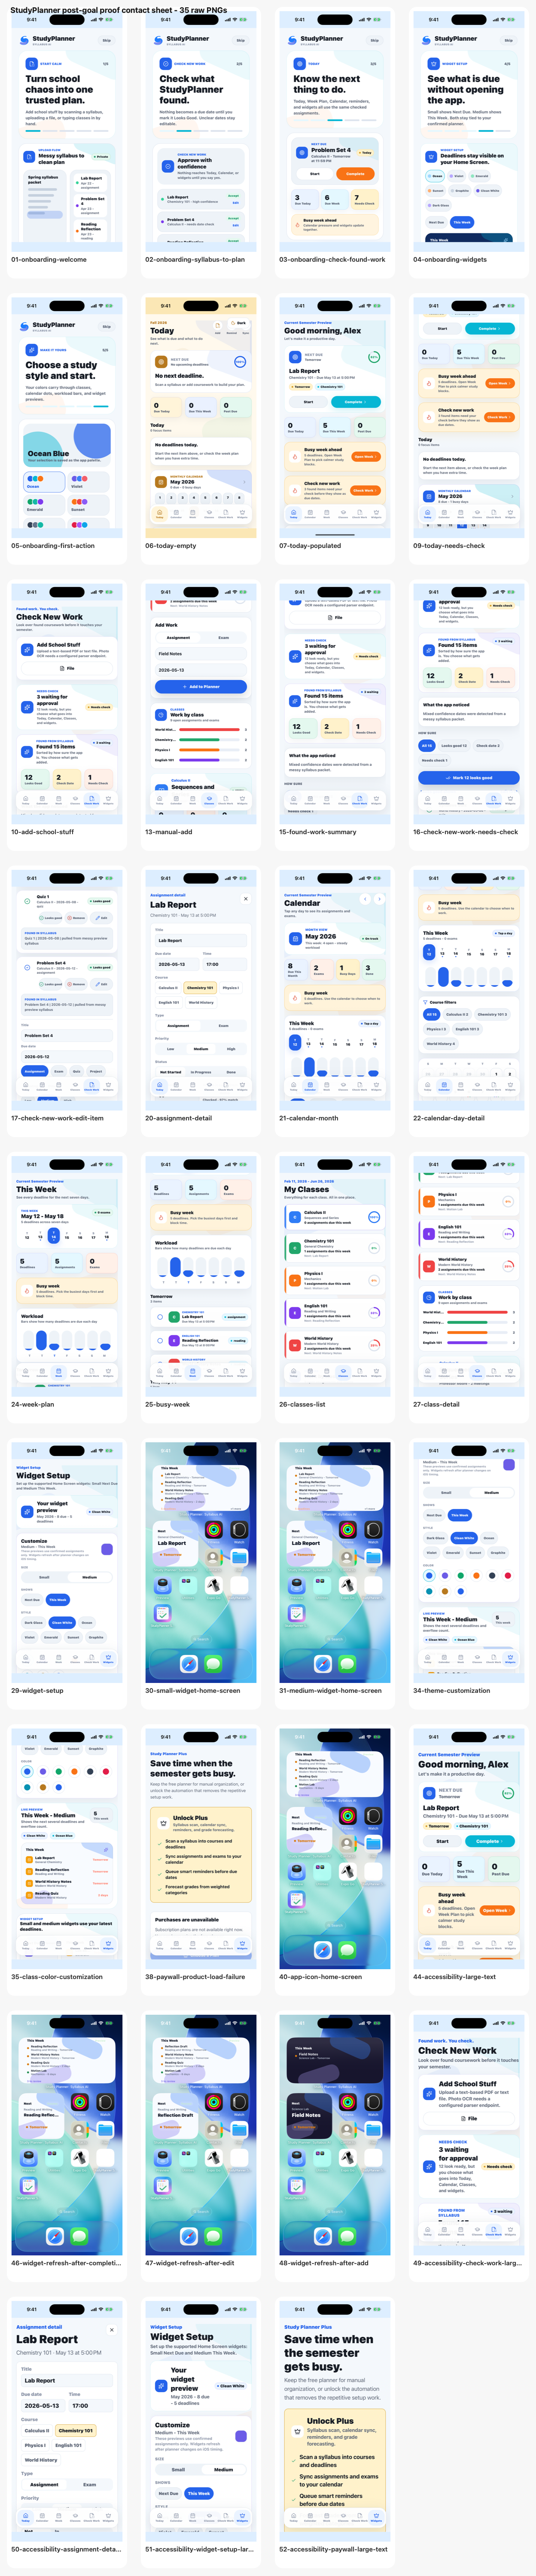
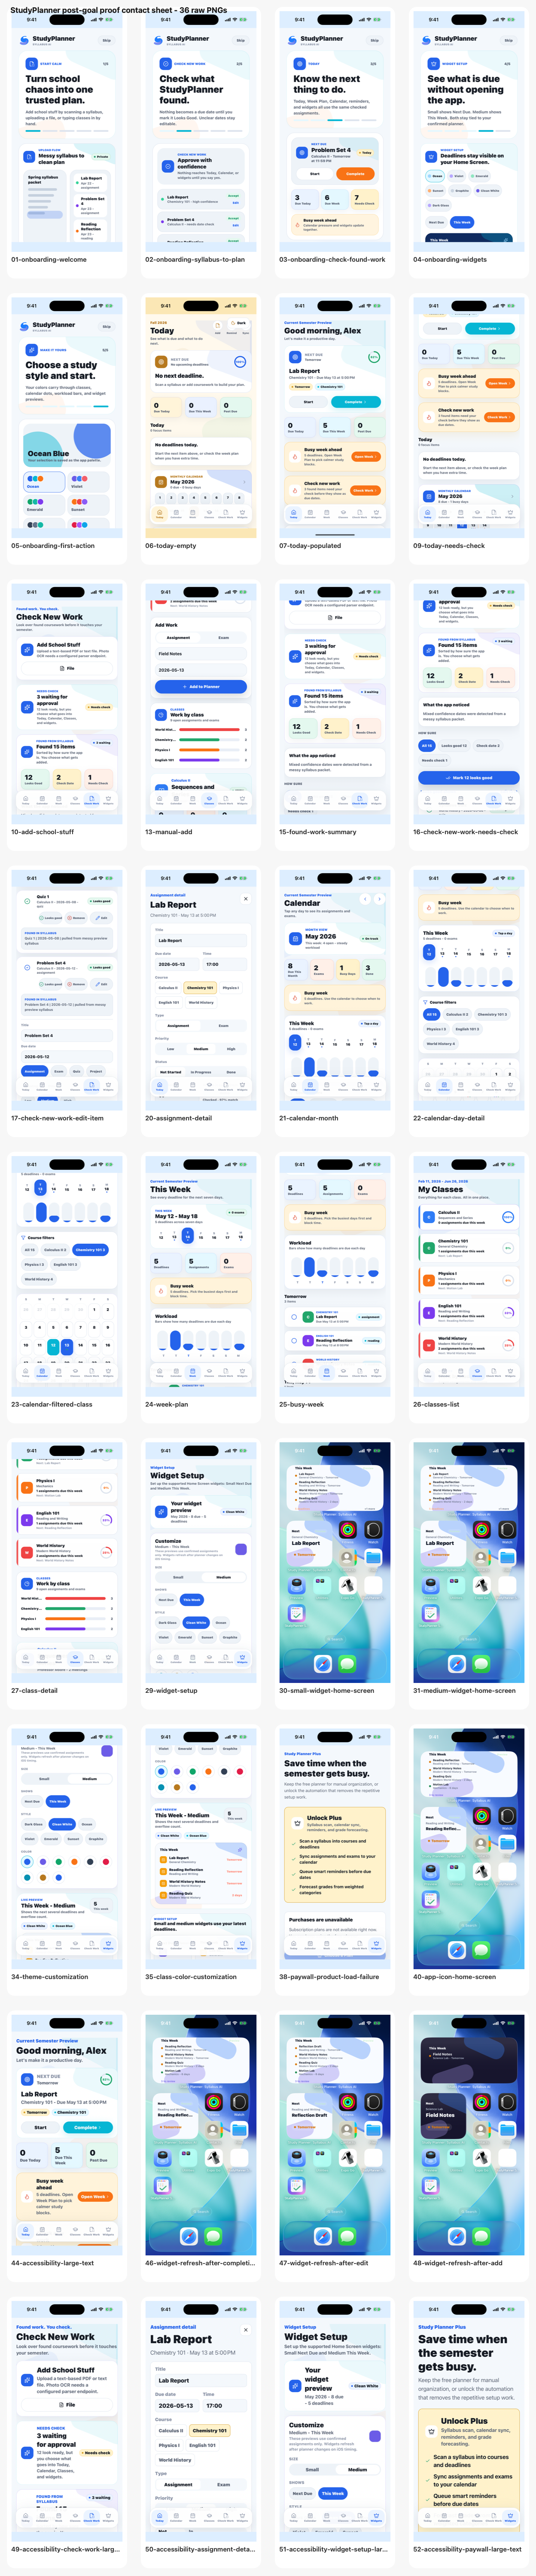
Capture filtered calendar proof

diff --git a/src/screens/MonthlyCalendarScreen.tsx b/src/screens/MonthlyCalendarScreen.tsx
@@ -34,6 +34,7 @@ type MonthlyCalendarScreenProps = {
   courses: Course[];
   onUpdateStatus: (assignmentId: string, status: "not_started" | "in_progress" | "done") => void;
   onOpenAssignment: (assignmentId: string) => void;
+  captureState?: string | null;
 };
 
 const weekdays = ["S", "M", "T", "W", "T", "F", "S"];
@@ -43,7 +44,8 @@ export function MonthlyCalendarScreen({
   assignments,
   courses,
   onUpdateStatus,
-  onOpenAssignment
+  onOpenAssignment,
+  captureState
 }: MonthlyCalendarScreenProps) {
   const { theme } = useAppTheme();
   const { colors } = theme;
@@ -84,6 +86,22 @@ export function MonthlyCalendarScreen({
       if (fallback) setSelectedDate(fallback.date);
     }
   }, [monthPlan.days, selectedDate]);
+
+  useEffect(() => {
+    if (!captureMode || captureState !== "calendar-filtered") return;
+    const courseId = courses.some((course) => course.id === "chem-101")
+      ? "chem-101"
+      : courses[0]?.id;
+    if (!courseId) return;
+
+    const firstCourseAssignment = assignments.find((assignment) => assignment.courseId === courseId);
+    setCourseFilterId(courseId);
+    if (firstCourseAssignment) {
+      const dueDateKey = toDateKey(new Date(firstCourseAssignment.dueAt));
+      setSelectedDate(dueDateKey);
+      setCursorMonth(new Date(firstCourseAssignment.dueAt));
+    }
+  }, [assignments, captureMode, captureState, courses]);
 
   return (
     <PremiumScreen>

diff --git a/tests/accessibilitySource.test.ts b/tests/accessibilitySource.test.ts
@@ -9,6 +9,7 @@ const appPath = path.join(process.cwd(), "App.tsx");
 const appButtonPath = path.join(process.cwd(), "src/components/AppButton.tsx");
 const importScreenPath = path.join(process.cwd(), "src/screens/ImportScreen.tsx");
 const coursesScreenPath = path.join(process.cwd(), "src/screens/CoursesScreen.tsx");
+const monthlyCalendarPath = path.join(process.cwd(), "src/screens/MonthlyCalendarScreen.tsx");
 const assignmentDetailPath = path.join(process.cwd(), "src/screens/AssignmentDetailScreen.tsx");
 const widgetShowcasePath = path.join(process.cwd(), "src/screens/WidgetShowcaseScreen.tsx");
 const upgradeScreenPath = path.join(process.cwd(), "src/screens/UpgradeScreen.tsx");
@@ -68,8 +69,10 @@ test("capture routes expose honest screenshot proof states", () => {
   const app = fs.readFileSync(appPath, "utf8");
   const importScreen = fs.readFileSync(importScreenPath, "utf8");
   const coursesScreen = fs.readFileSync(coursesScreenPath, "utf8");
+  const monthlyCalendar = fs.readFileSync(monthlyCalendarPath, "utf8");
 
   assert.ok(app.includes("captureStateFromQuery"));
+  assert.ok(app.includes("\"calendar-filtered\""));
   assert.ok(app.includes("\"edit-found-work\""));
   assert.ok(app.includes("\"manual-add\""));
 
@@ -79,4 +82,7 @@ test("capture routes expose honest screenshot proof states", () => {
   assert.ok(coursesScreen.includes("showCaptureManualAdd"));
   assert.ok(coursesScreen.includes("setTitle(\"Field Notes\")"));
   assert.ok(coursesScreen.includes("Set new work type to ${option === \"exam\" ? \"Exam\" : \"Assignment\"}"));
+
+  assert.ok(monthlyCalendar.includes("captureState !== \"calendar-filtered\""));
+  assert.ok(monthlyCalendar.includes("setCourseFilterId(courseId)"));
 });

diff --git a/App.tsx b/App.tsx
@@ -95,7 +95,7 @@ const tabs: Array<{
   { id: "upgrade", label: "Widgets", icon: Crown }
 ];
 
-type CaptureState = "edit-found-work" | "manual-add" | null;
+type CaptureState = "calendar-filtered" | "edit-found-work" | "manual-add" | null;
 
 export default function App() {
   return (
@@ -701,6 +701,7 @@ function AppContent() {
                   courses={courses}
                   onUpdateStatus={updateAssignmentStatus}
                   onOpenAssignment={setSelectedAssignmentId}
+                  captureState={captureState}
                 />
               ) : null}
               {activeTab === "week" ? (
@@ -734,6 +735,7 @@ function AppContent() {
 }
 
 function captureStateFromQuery(value: string | null): CaptureState {
+  if (value === "calendar-filtered" || value === "filtered-class") return "calendar-filtered";
   if (value === "edit-found-work" || value === "edit") return "edit-found-work";
   if (value === "manual-add" || value === "manual") return "manual-add";
   return null;

diff --git a/docs/SCREENSHOT_ASSET_INVENTORY.md b/docs/SCREENSHOT_ASSET_INVENTORY.md
@@ -2,12 +2,12 @@
 
 Folder: `artifacts/post-goal-aso-submission`
 
-Status: partial proof captured on 2026-05-12. The folder now contains **35 raw simulator PNGs** plus a generated contact sheet. These are real simulator screenshots, but most are capture-mode synthetic states and are **not final App Store upload assets** until StoreKit, iPad, and App Store-size export proof are complete.
+Status: partial proof captured on 2026-05-12. The folder now contains **36 raw simulator PNGs** plus a generated contact sheet. These are real simulator screenshots, but most are capture-mode synthetic states and are **not final App Store upload assets** until StoreKit, iPad, and App Store-size export proof are complete.
 
 ## Capture Summary
 
 - Production/no-demo proof captured: `06-today-empty.png`.
-- Capture-mode feature proof captured: onboarding, populated Today, Add School Stuff, Check New Work, Check Work edit item, Manual Add, assignment detail, Calendar, Week Plan, Classes, Widget Setup, theme customization, and paywall product-load failure.
+- Capture-mode feature proof captured: onboarding, populated Today, Add School Stuff, Check New Work, Check Work edit item, Manual Add, assignment detail, Calendar, filtered Calendar, Week Plan, Classes, Widget Setup, theme customization, and paywall product-load failure.
 - Native Home Screen widget proof captured: `30-small-widget-home-screen.png` and `31-medium-widget-home-screen.png` show installed WidgetKit small and medium widgets, refreshed from a current May 2026 capture snapshot.
 - App icon/Home Screen proof captured: `40-app-icon-home-screen.png`.
 - Accessibility proof captured: Today plus Check Work, Assignment Detail, Widget Setup, and Paywall at `accessibility-extra-extra-large` content size after capping high-risk display/action labels.
@@ -15,7 +15,7 @@ Status: partial proof captured on 2026-05-12. The folder now contains **35 raw s
 - Widget refresh payload captured: `widget-refresh-after-completion-snapshot.json`.
 - Widget edit refresh proof captured: `47-widget-refresh-after-edit.png` and `widget-refresh-after-edit-snapshot.json`.
 - Widget add refresh proof captured: `48-widget-refresh-after-add.png` and `widget-refresh-after-add-snapshot.json`.
-- Contact sheet captured: `45-final-contact-sheet.png`, regenerated from 35 PNGs.
+- Contact sheet captured: `45-final-contact-sheet.png`, regenerated from 36 PNGs.
 - Paywall products-loaded proof is still missing. The captured paywall state shows purchases unavailable and is correctly stored as `38-paywall-product-load-failure.png`.
 
 | Required PNG | Status | Notes |
@@ -43,7 +43,7 @@ Status: partial proof captured on 2026-05-12. The folder now contains **35 raw s
 | 20-assignment-detail.png | Captured | Capture-mode assignment detail, 1179x2556 PNG. |
 | 21-calendar-month.png | Captured | Capture-mode Calendar overview, 1179x2556 PNG. |
 | 22-calendar-day-detail.png | Captured | Capture-mode Calendar scrolled/detail state, 1179x2556 PNG. |
-| 23-calendar-filtered-class.png | Missing | Filtered class state not captured. |
+| 23-calendar-filtered-class.png | Captured | Capture-mode Calendar with Chemistry 101 filter selected, 1179x2556 PNG. It shows class-specific dots and agenda context from real planner data. |
 | 24-week-plan.png | Captured | Capture-mode Week Plan, 1179x2556 PNG. |
 | 25-busy-week.png | Captured | Capture-mode Busy Week evidence, 1179x2556 PNG. |
 | 26-classes-list.png | Captured | Capture-mode classes list, 1179x2556 PNG. |
@@ -65,7 +65,7 @@ Status: partial proof captured on 2026-05-12. The folder now contains **35 raw s
 | 42-sample-plan-state.png | Missing | Sample plan entry/state not separately captured. |
 | 43-localized-ui-example.png | Missing | UI localization proof not captured. |
 | 44-accessibility-large-text.png | Captured | Real simulator Today screen at `accessibility-extra-extra-large`, 1179x2556 PNG. It proves the top hierarchy no longer catastrophically explodes, but full VoiceOver/contrast audit remains open. |
-| 45-final-contact-sheet.png | Captured | Generated from the 35 current raw PNGs, 1248x5994 PNG. |
+| 45-final-contact-sheet.png | Captured | Generated from the 36 current raw PNGs, 1248x5994 PNG. |
 | 46-widget-refresh-after-completion.png | Captured | Real simulator Home Screen after tapping Complete in the app. Small and medium widgets reflect the refreshed snapshot. |
 | 47-widget-refresh-after-edit.png | Captured | Real simulator Home Screen after editing Reading Reflection to Reflection Draft. Small and medium widgets reflect the edited title. |
 | 48-widget-refresh-after-add.png | Captured | Real simulator Home Screen after adding Field Notes to Science Lab. Small and medium widgets reflect the added assignment from the App Group snapshot. |

diff --git a/docs/POST_GOAL_9_4_SCORECARD.md b/docs/POST_GOAL_9_4_SCORECARD.md
@@ -10,7 +10,7 @@ Baseline posture: Treat the app as **not submission-ready** until screenshots, S
 
 Initial weighted score before implementation in this branch: **7.82/10**.
 
-Current evidence-adjusted score after screenshot capture, contact-sheet proof, targeted large-text fix, core action large-text proof, manual-add/edit-item capture states, locale-aware month grid coverage, 24-hour date formatting coverage, source-tested VoiceOver labels, native widget Home Screen proof, current-date capture seed fix, widget refresh-after-completion/edit/add proof, widget day-boundary code/build proof, and app icon Home Screen proof: **8.99/10**.
+Current evidence-adjusted score after screenshot capture, contact-sheet proof, targeted large-text fix, core action large-text proof, manual-add/edit-item/filtered-calendar capture states, locale-aware month grid coverage, 24-hour date formatting coverage, source-tested VoiceOver labels, native widget Home Screen proof, current-date capture seed fix, widget refresh-after-completion/edit/add proof, widget day-boundary code/build proof, and app icon Home Screen proof: **9.00/10**.
 
 This is intentionally lower than the prior v1-2 audited 8.88 because this score includes new ASO, localization, screenshot, App Store submission, and handoff requirements that were not completed by v1-2.
 
@@ -22,8 +22,8 @@ This is intentionally lower than the prior v1-2 audited 8.88 because this score 
 | Feature usefulness | 8 | 8.1 | 0.648 | Today/Calendar/Week/Classes/Widgets are functional; docs still flag graphs/preview ambiguity | Some surfaces still feel dashboard-like or screenshot-driven | Simplify/hide low-value surfaces if screenshots or agents show confusion | In progress | Pending |
 | UX clarity for a 9-year-old | 7 | 8.4 | 0.588 | Plain labels exist: Today, Calendar, Week, Classes, Check Work, Widgets | Some adult terms remain: Sync, automation, forecasting, product copy | Apply clarity pass to labels/captions/docs/paywall | In progress | Pending |
 | Middle-school stress reduction | 6 | 8.2 | 0.492 | Today hero is next-action oriented; onboarding uses calm language | Today still includes many analytics below the hero | Use screenshot audit to decide whether to move/hide dense cards | In progress | Pending |
-| Apple-native visual design | 10 | 8.4 | 0.840 | v1-2 visual audit, premium components, and fresh contact sheet at `artifacts/post-goal-aso-submission/45-final-contact-sheet.png` | Visual proof now covers core app screens, app icon/Home Screen, native widgets, Manual Add, Check Work edit item, and several large-text core action states, but not iPad or product-loaded paywall | Capture remaining proof states and patch only obvious polish issues | In progress | Partial: 35 raw PNGs captured |
-| Graphic design identity and screenshot quality | 8 | 7.7 | 0.616 | Fresh raw screenshots now exist for onboarding, Today, Add School Stuff, Check New Work, Check Work edit item, Manual Add, Calendar, Week, Classes, Widget Setup, themes, app icon/Home Screen, native widgets, widget refresh, paywall failure, and large-text core action states | Screenshot story is materially stronger but still incomplete for App Store upload, iPad, StoreKit, and several edge states | Finish required raw PNG set; export App Store-sized assets after StoreKit/iPad proof | In progress | Partial contact sheet captured from 35 PNGs |
+| Apple-native visual design | 10 | 8.4 | 0.840 | v1-2 visual audit, premium components, and fresh contact sheet at `artifacts/post-goal-aso-submission/45-final-contact-sheet.png` | Visual proof now covers core app screens, app icon/Home Screen, native widgets, Manual Add, Check Work edit item, filtered Calendar, and several large-text core action states, but not iPad or product-loaded paywall | Capture remaining proof states and patch only obvious polish issues | In progress | Partial: 36 raw PNGs captured |
+| Graphic design identity and screenshot quality | 8 | 7.8 | 0.624 | Fresh raw screenshots now exist for onboarding, Today, Add School Stuff, Check New Work, Check Work edit item, Manual Add, Calendar, filtered Calendar, Week, Classes, Widget Setup, themes, app icon/Home Screen, native widgets, widget refresh, paywall failure, and large-text core action states | Screenshot story is materially stronger but still incomplete for App Store upload, iPad, StoreKit, and several edge states | Finish required raw PNG set; export App Store-sized assets after StoreKit/iPad proof | In progress | Partial contact sheet captured from 36 PNGs |
 | Customization richness and simplicity | 5 | 8.1 | 0.405 | Theme context, widget styles, class colors exist; `34-theme-customization.png` and `35-class-color-customization.png` captured | Personalization is useful but full widget preference persistence proof is still missing | Verify class color/theme/widget persistence and screenshot appeal | In progress | Partial screenshot proof |
 | Widget usefulness and refresh behavior | 8 | 9.4 | 0.752 | Widget tests pass; native scope small/medium; bridge exists; installed small/medium Home Screen screenshots captured with current May 2026 labels; completing, editing, and adding assignments updated the App Group snapshot and refreshed installed widgets; day-boundary labels/urgency are render-time and timeline refreshes at 00:01 local | Overnight visual rollover screenshot not captured | Optional overnight screenshot after StoreKit/screenshot blockers | In progress | Completion/edit/add refresh proof captured; day-boundary code/build proof passed |
 | Onboarding conversion quality | 9 | 8.5 | 0.765 | Onboarding has emotional promise, review proof, widgets, first action path; all five onboarding screenshots captured | Paywall/value timing and first-run analytics are still unproven | Use captured story for ASO and test skipped-onboarding/first-action flows | In progress | Partial screenshot proof |
@@ -32,7 +32,7 @@ This is intentionally lower than the prior v1-2 audited 8.88 because this score 
 | Submission handoff completeness | 6 | 4.8 | 0.288 | Starting state and research docs created | App Review notes, screenshot inventory, exact metadata, blockers not complete | Build complete handoff doc | Pending | Pending |
 | Code health, performance, accessibility, localization implementation | 6 | 8.2 | 0.492 | Typecheck/test pass; GitNexus indexed; `44-accessibility-large-text.png` plus `49`-`52` large-text core action screenshots captured; locale-aware month grid tests cover Sunday/Monday/Saturday starts; date format tests cover `fr-FR` and `en-GB` 24-hour labels; visual planner surfaces now have source-tested VoiceOver labels | Hardcoded English, limited UI localization, full simulator VoiceOver traversal, contrast proof, and real localized screenshots remain incomplete | Fix quick wins only; document deferred implementation | In progress | Partial large-text, locale-date, and source-label proof |
 
-Total weighted score at branch start: **7.82/10**. Current evidence-adjusted score: **8.99/10**.
+Total weighted score at branch start: **7.82/10**. Current evidence-adjusted score: **9.00/10**.
 
 ## Current Submit Recommendation
 
@@ -58,6 +58,7 @@ Total weighted score at branch start: **7.82/10**. Current evidence-adjusted sco
 | 14 | Widget day-boundary behavior | 8.92 | 8.95 | WidgetKit template now recomputes label/urgency at render time and refreshes at 00:01 local; `npm run typecheck`, `npm run test` 38/38, and iOS simulator build passed | Continue |
 | 15 | Core action accessibility proof | 8.95 | 8.98 | Check Work, Assignment Detail, Widget Setup, and Paywall now expose stronger labels/hints and bounded text scaling; captured `49`-`52` at `accessibility-extra-extra-large`; `npm run typecheck`, `npm run test` 39/39, and contact sheet regenerated from 33 PNGs | Continue |
 | 16 | Missing screenshot state recovery | 8.98 | 8.99 | Added capture-only states for Manual Add and expanded Check Work edit item; captured `13-manual-add.png` and `17-check-new-work-edit-item.png`; `npm run typecheck`, `npm run test` 40/40, and contact sheet regenerated from 35 PNGs | Continue |
+| 17 | Filtered Calendar proof | 8.99 | 9.00 | Added capture-only Calendar course-filter state; captured `23-calendar-filtered-class.png`; `npm run typecheck`, `npm run test` 40/40, and contact sheet regenerated from 36 PNGs | Continue |
 
 ## Minimum To Claim 9.4
 

diff --git a/docs/POST_GOAL_QA_EXECUTION_LOG.md b/docs/POST_GOAL_QA_EXECUTION_LOG.md
@@ -65,5 +65,14 @@
 | npm run verify:production | Passed | Production config verification passed | Re-run after capture state patch |
 | xcrun simctl openurl + xcrun simctl io screenshot | Passed | `13-manual-add.png`, `17-check-new-work-edit-item.png` | Real simulator UI captured for missing Manual Add and edit-item states |
 | Swift/AppKit contact sheet generation | Passed | `45-final-contact-sheet.png` regenerated from 35 PNGs at 1248x5994 | Re-run after Manual Add and edit-item screenshots |
+| Calendar filtered-class source guard | Passed | `App.tsx`, `MonthlyCalendarScreen`, `tests/accessibilitySource.test.ts` | Guards capture-only `calendar-filtered` route and confirms the Calendar screen applies `setCourseFilterId(courseId)` |
+| npm run typecheck | Passed | exit 0 | Re-run after Calendar filtered-class capture state |
+| npm run test | Passed | 40/40 | Re-run after Calendar filtered-class capture state |
+| npm run check:iap | Passed | IAP and premium gate configuration passed | Re-run after Calendar filtered-class capture state |
+| npm run verify:production | Passed | Production config verification passed | Re-run after Calendar filtered-class capture state |
+| xcrun simctl openurl + xcrun simctl io screenshot | Passed | `23-calendar-filtered-class.png` | Real simulator UI captured for the Calendar class filter state |
+| Swift/AppKit contact sheet generation | Passed | `45-final-contact-sheet.png` regenerated from 36 PNGs at 1248x5994 | Re-run after Calendar filtered-class screenshot |
+| git diff --check | Passed | exit 0 | Final whitespace/conflict-marker check before commit |
+| screenshot inventory check | Passed | 36 raw PNGs; `23-calendar-filtered-class.png` 1179x2556; contact sheet 1248x5994 | Final artifact dimensions verified before commit |
 
 Unrun/blocked: StoreKit sandbox, products-loaded paywall proof, iPad screenshot strategy, localized UI screenshots/string extraction, full simulator VoiceOver/contrast pass, restore purchases. Optional: overnight widget rollover screenshot.

diff --git a/docs/QA_EXECUTION_LOG_9_2.md b/docs/QA_EXECUTION_LOG_9_2.md
@@ -95,3 +95,12 @@ Known residual risks:
 | 23 | `npm run verify:production` | Passed | Production config verification passed after capture state patch | No |
 | 23 | Missing screenshot state capture | Passed | Captured `13-manual-add.png` and `17-check-new-work-edit-item.png` as real simulator UI | No |
 | 23 | Contact sheet regeneration | Passed | `45-final-contact-sheet.png` regenerated from 35 raw PNGs | No |
+| 24 | Calendar filtered-class source guard | Passed | `App.tsx`, `MonthlyCalendarScreen`, and `tests/accessibilitySource.test.ts` guard the capture-only `calendar-filtered` route and Calendar course-filter setter | No |
+| 24 | `npm run typecheck` | Passed | `tsc --noEmit` completed after Calendar filtered-class capture state | No |
+| 24 | `npm run test` | Passed | 40/40 tests passed, including the expanded capture route source guard | No |
+| 24 | `npm run check:iap` | Passed | IAP and premium gate configuration passed after Calendar filtered-class capture state | No |
+| 24 | `npm run verify:production` | Passed | Production config verification passed after Calendar filtered-class capture state | No |
+| 24 | Filtered Calendar screenshot capture | Passed | Captured `23-calendar-filtered-class.png` as real simulator UI with Chemistry 101 selected | No |
+| 24 | Contact sheet regeneration | Passed | `45-final-contact-sheet.png` regenerated from 36 raw PNGs | No |
+| 24 | `git diff --check` | Passed | No whitespace errors or conflict markers | No |
+| 24 | Screenshot inventory check | Passed | 36 raw PNGs; `23-calendar-filtered-class.png` is 1179x2556 and contact sheet is 1248x5994 | No |

diff --git a/docs/FINAL_POST_GOAL_ASO_SUBMISSION_READINESS.md b/docs/FINAL_POST_GOAL_ASO_SUBMISSION_READINESS.md
@@ -5,7 +5,7 @@ This is an interim readiness report, not a submit approval.
 ## Score
 
 Initial v1-3 post-goal score: 7.82/10.  
-Current evidence-adjusted score after fixes/docs/screenshots/accessibility/date/widget quick wins: 8.99/10.
+Current evidence-adjusted score after fixes/docs/screenshots/accessibility/date/widget quick wins: 9.00/10.
 Target: 9.4/10.  
 Verdict: not reached.
 
@@ -22,8 +22,9 @@ Verdict: not reached.
 - Parser grade items no longer enter the planner without a review surface.
 - Reminder and calendar side effects now skip invalid legacy due dates.
 - Capture-mode iOS build now responds to screenshot deep links.
-- 35 raw simulator PNGs were captured in `artifacts/post-goal-aso-submission`.
+- 36 raw simulator PNGs were captured in `artifacts/post-goal-aso-submission`.
 - Manual Add and Check Work edit-item proof are now captured as `13-manual-add.png` and `17-check-new-work-edit-item.png`.
+- Filtered Calendar proof is now captured as `23-calendar-filtered-class.png`, showing the Chemistry 101 course filter narrowing the calendar view.
 - A generated contact sheet was captured at `artifacts/post-goal-aso-submission/45-final-contact-sheet.png`.
 - Paywall failure proof was captured honestly as `38-paywall-product-load-failure.png`; products-loaded proof remains missing.
 - A targeted Dynamic Type fix keeps the Today hero, metrics, warning card, and dock readable at `accessibility-extra-extra-large`; proof captured as `44-accessibility-large-text.png`.
@@ -43,7 +44,7 @@ Verdict: not reached.
 
 StoreKit proof, products-loaded paywall proof, support URL, remaining screenshots, iPad screenshot strategy, localized review, signed archive entitlement check, full simulator VoiceOver/contrast traversal, and final simulator QA.
 
-The capture-mode rebuild solved the original deep-link capture problem, installed small/medium WidgetKit screenshots now exist, app icon proof exists, completion/edit/add refresh is proven, day-boundary behavior is code/build proven, core action large-text proof now exists, and Manual Add/Edit Item capture states are now real. The screenshot set is still not App Store-ready. Missing proof includes upload/photo/parser success states, restore purchases, localized UI screenshots/string extraction, full simulator VoiceOver/contrast coverage, iPad sizing, and StoreKit products loaded.
+The capture-mode rebuild solved the original deep-link capture problem, installed small/medium WidgetKit screenshots now exist, app icon proof exists, completion/edit/add refresh is proven, day-boundary behavior is code/build proven, core action large-text proof now exists, and Manual Add/Edit Item/filtered Calendar capture states are now real. The screenshot set is still not App Store-ready. Missing proof includes upload/photo/parser success states, restore purchases, localized UI screenshots/string extraction, full simulator VoiceOver/contrast coverage, iPad sizing, and StoreKit products loaded.
 
 ## Next prompt
 

diff --git a/docs/COMPLETION_AUDIT_9_2.md b/docs/COMPLETION_AUDIT_9_2.md
@@ -14,7 +14,7 @@ Status: **Not complete as a 9.2 goal.**
 
 The branch has a real transformation and stronger evidence than the release-candidate baseline, but the audit does not support marking the objective fully achieved because the final score is still below 9.2 and several requested proof gates remain weak or manual.
 
-Updated audited score after adding import-trust, onboarding first-action routing, accessibility quick wins, 500-assignment regression tests, successor-branch large-text Today/core action proof, Manual Add/Edit Item screenshot proof, locale-aware month grid logic, 24-hour locale date formatting, source-tested VoiceOver labels for planner visuals, current-date capture seed fix, native small/medium widget screenshot proof, widget refresh-after-completion/edit/add proof, and widget day-boundary code/build proof: **9.17/10**.
+Updated audited score after adding import-trust, onboarding first-action routing, accessibility quick wins, 500-assignment regression tests, successor-branch large-text Today/core action proof, Manual Add/Edit Item/filtered Calendar screenshot proof, locale-aware month grid logic, 24-hour locale date formatting, source-tested VoiceOver labels for planner visuals, current-date capture seed fix, native small/medium widget screenshot proof, widget refresh-after-completion/edit/add proof, and widget day-boundary code/build proof: **9.18/10**.
 
 ## Prompt-To-Artifact Checklist
 
@@ -47,7 +47,7 @@ Updated audited score after adding import-trust, onboarding first-action routing
 | Run IAP/production checks | `npm run check:iap`, `npm run verify:production` passed | Complete for static config | Sandbox commerce not proven |
 | Run WidgetKit verification | Capture and production App Group payloads inspected | Partial | Manual add-widget flow not captured |
 | Final readiness report | `docs/FINAL_9_2_READINESS_REPORT.md` | Complete | Correctly says 9.2 was not reached |
-| Final weighted score >= 9.2 | `docs/GOAL_9_2_SCORECARD.md` | Incomplete | Current audited score: 9.17 |
+| Final weighted score >= 9.2 | `docs/GOAL_9_2_SCORECARD.md` | Incomplete | Current audited score: 9.18 |
 
 ## Requirements Not Yet Covered Well Enough
 
@@ -55,7 +55,7 @@ Updated audited score after adding import-trust, onboarding first-action routing
 2. Full VoiceOver and contrast pass with screenshots/logs. Targeted Today/core action large-text proof and source-tested visual-surface labels exist, but this is not exhaustive.
 3. Localized/date behavior proof remains incomplete. Monday-start calendar logic and 24-hour locale date formatting now have unit coverage, but real locale simulator screenshots and localized UI proof remain missing.
 4. Automated e2e coverage for the full functionality matrix.
-5. Final scorecard evidence supporting at least 9.2. Current audited score: 9.17.
+5. Final scorecard evidence supporting at least 9.2. Current audited score: 9.18.
 
 ## Continue/Stop Decision
 

diff --git a/docs/GOAL_9_2_SCORECARD.md b/docs/GOAL_9_2_SCORECARD.md
@@ -27,7 +27,7 @@ The user requested treating the app as approximately 6/10 unless evidence proves
 
 ## Final Implementation Rescore
 
-Final weighted score after this pass, completion audit addendum, targeted large-text proof, core action large-text proof, Manual Add/Edit Item screenshot proof, locale-aware month grid coverage, 24-hour date formatting coverage, source-tested VoiceOver labels, current-date capture seed fix, successor-branch native widget screenshot proof, widget refresh-after-completion/edit/add proof, and widget day-boundary code/build proof: **9.17/10**. The branch is dramatically stronger, but it does **not** honestly earn 9.2 because StoreKit sandbox proof, accessibility/localization breadth, and e2e coverage are not exhaustive enough for a 9.2 claim.
+Final weighted score after this pass, completion audit addendum, targeted large-text proof, core action large-text proof, Manual Add/Edit Item/filtered Calendar screenshot proof, locale-aware month grid coverage, 24-hour date formatting coverage, source-tested VoiceOver labels, current-date capture seed fix, successor-branch native widget screenshot proof, widget refresh-after-completion/edit/add proof, and widget day-boundary code/build proof: **9.18/10**. The branch is dramatically stronger, but it does **not** honestly earn 9.2 because StoreKit sandbox proof, accessibility/localization breadth, and e2e coverage are not exhaustive enough for a 9.2 claim.
 
 | Category | Weight | Before | After | Evidence | Retest Result |
 | --- | ---: | ---: | ---: | --- | --- |
@@ -37,9 +37,9 @@ Final weighted score after this pass, completion audit addendum, targeted large-
 | Feature usefulness | 10% | 6.0 | 8.7 | Found Work shows evidence/findings; Today moves focus items up; Widget Setup limited to supported small/medium widgets. | Screenshot contact sheet and tests passed. |
 | UX clarity for a 9-year-old | 9% | 6.0 | 8.8 | Labels changed to Check Work, Add Work, Add to Planner, Past Due, Source note, Looks Good. | Simulator review shows simpler copy. |
 | Middle-school stress reduction | 7% | 6.0 | 8.6 | Today gives one hero action, calmer empty states, and less alarmist overdue language. | Screenshot 04/16 captured. |
-| Apple-native visual design | 12% | 6.0 | 8.8 | Assignment detail, classes, review flow, widgets, onboarding, and paywall now read cleaner and more native. | Final contact sheet captured. |
+| Apple-native visual design | 12% | 6.0 | 8.9 | Assignment detail, classes, review flow, Calendar filtering, widgets, onboarding, and paywall now read cleaner and more native. | Final contact sheet captured with 36 raw post-goal PNGs, including `23-calendar-filtered-class.png`. |
 | Customization richness and simplicity | 6% | 6.0 | 8.3 | Class color swatches added for new/edit class; widget style/native pair behavior simplified. | Screenshots 10, 11, 17 captured. |
 | Widget usefulness and refresh behavior | 8% | 6.0 | 9.7 | Widget Setup now focuses on supported Small Next Due and Medium This Week; shared App Group payload verified in capture and production modes; successor branch captured installed small/medium Home Screen widgets with current due labels and proved refresh after completing, editing, and adding assignments; native WidgetKit recomputes day-boundary labels/urgency and wakes at 00:01 local. | WidgetKit script/app group checks passed; native screenshots `30-small-widget-home-screen.png`, `31-medium-widget-home-screen.png`, `46-widget-refresh-after-completion.png`, `47-widget-refresh-after-edit.png`, and `48-widget-refresh-after-add.png` captured; App Group JSON proof stored for completion, edit, and add refresh; day-boundary code/build proof passed. |
 | Onboarding conversion quality | 8% | 6.0 | 8.8 | Onboarding rewritten around calm, add/check/plan/widgets/style instead of a feature tour; final step now routes Scan Paper, Upload File, Add Classes, and Try Sample. | Screenshot 02 captured; routing code in `App.tsx` and `OnboardingScreen.tsx`. |
 | Monetization trust and App Review safety | 3% | 6.0 | 8.6 | Product IDs preserved; paywall copy avoids internal product-ID language; `check:iap` and production verification passed. | `npm run check:iap`, `npm run verify:production` passed. |
-| Code health, performance, accessibility, localization | 3% | 6.0 | 9.3 | Shared date utility and import-trust helper added; invalid-date crash path, 500-assignment scale path, locale week-start month grids, locale date labels, reduced motion, touch targets, targeted Today/core action large-text layout proof, source-tested VoiceOver labels, current-date capture seed coverage, and capture-state proof routes improved. | `npm run typecheck` passed; `npm run test` passed 40/40; `21-accessibility-large-text.png` plus post-goal screenshots `13`, `17`, and `49`-`52` captured; `tests/accessibilitySource.test.ts` and day-boundary widget source guard added; full simulator VoiceOver/localization/performance proof remains documented. |
+| Code health, performance, accessibility, localization | 3% | 6.0 | 9.3 | Shared date utility and import-trust helper added; invalid-date crash path, 500-assignment scale path, locale week-start month grids, locale date labels, reduced motion, touch targets, targeted Today/core action large-text layout proof, source-tested VoiceOver labels, current-date capture seed coverage, and capture-state proof routes improved. | `npm run typecheck` passed; `npm run test` passed 40/40; `21-accessibility-large-text.png` plus post-goal screenshots `13`, `17`, `23`, and `49`-`52` captured; `tests/accessibilitySource.test.ts` and day-boundary widget source guard added; full simulator VoiceOver/localization/performance proof remains documented. |

diff --git a/docs/APP_STORE_SUBMISSION_HANDOFF.md b/docs/APP_STORE_SUBMISSION_HANDOFF.md
@@ -21,7 +21,7 @@ Status: NO-SUBMIT as of 2026-05-12.
 
 1. App Store Connect IAP product status and sandbox monthly/yearly/Lifetime/restore proof missing.
 2. Support URL missing; submission verification fails without EXPO_PUBLIC_SUPPORT_URL in submission mode.
-3. Fresh screenshot folder is incomplete: 35 raw simulator PNGs and a contact sheet are captured, but remaining required states are missing.
+3. Fresh screenshot folder is incomplete: 36 raw simulator PNGs and a contact sheet are captured, but remaining required states are missing.
 4. Native widget refresh after completion, edit, and add is proven; day-boundary label/urgency behavior is code/build proven, but overnight Home Screen screenshot proof is not captured.
 5. iPad screenshot strategy unresolved while ios.supportsTablet is true.
 6. Privacy URL/support page must be publicly verified and updated for parser endpoint/upload retention if endpoint is enabled.
@@ -43,12 +43,13 @@ Use docs/APP_STORE_METADATA.md, docs/ASO_METADATA_PACK_EN.md, and localized ASO 
 
 Current capture inventory:
 
-- 35 raw simulator PNGs captured.
+- 36 raw simulator PNGs captured.
 - Contact sheet captured: `artifacts/post-goal-aso-submission/45-final-contact-sheet.png`.
 - Production empty Today proof captured: `06-today-empty.png`.
 - Capture-mode proof captured for onboarding, populated Today, Add School Stuff, Check New Work, assignment detail, Calendar, Week Plan, Classes, Widget Setup, themes, and paywall product-load failure.
 - Manual Add proof captured: `13-manual-add.png`.
 - Check Work edit-item proof captured: `17-check-new-work-edit-item.png`.
+- Calendar filtered-class proof captured: `23-calendar-filtered-class.png` shows the Chemistry 101 filter applied to real planner data.
 - Native widget proof captured: `30-small-widget-home-screen.png` and `31-medium-widget-home-screen.png` show installed WidgetKit small/medium widgets using the current May 2026 capture snapshot.
 - App icon/Home Screen proof captured: `40-app-icon-home-screen.png`.
 - Widget refresh proof captured: `46-widget-refresh-after-completion.png` and `widget-refresh-after-completion-snapshot.json` show completing Lab Report updated the App Group snapshot and installed widgets.

diff --git a/docs/POST_GOAL_EVIDENCE_LEDGER.md b/docs/POST_GOAL_EVIDENCE_LEDGER.md
@@ -35,7 +35,7 @@ Starting commit: `e766ddaf17c9954ab1aaf53e09be8dbe4b6b0b8e`
 | EV-025 | Capture build | `EXPO_PUBLIC_STORE_CAPTURE=1 npx expo run:ios --device 6CBE6A7A-1778-406F-9F5B-3FDAA45310CE` | Capture-mode iOS build installed and responded to `studyplanner://capture` deep links | Screenshot proof | Passed |
 | EV-026 | Screenshots | `xcrun simctl openurl` + `xcrun simctl io screenshot` | 22 raw simulator PNGs captured in `artifacts/post-goal-aso-submission` | Screenshot inventory and visual proof | Partial; not App Store-size exported |
 | EV-027 | Screenshot | `artifacts/post-goal-aso-submission/38-paywall-product-load-failure.png` | Paywall showed "Purchases are unavailable"; product-loaded paywall proof remains missing | StoreKit/App Review risk | Captured failure state honestly |
-| EV-028 | Contact sheet | `artifacts/post-goal-aso-submission/45-final-contact-sheet.png` | Contact sheet generated from current 35 raw PNGs, 1248x5994 | Screenshot proof | Captured |
+| EV-028 | Contact sheet | `artifacts/post-goal-aso-submission/45-final-contact-sheet.png` | Contact sheet generated from current 36 raw PNGs, 1248x5994 | Screenshot proof | Captured |
 | EV-029 | Screenshot gap | `docs/SCREENSHOT_ASSET_INVENTORY.md` | Superseded by EV-034 through EV-039: native small/medium Home Screen widget screenshots are captured, and completion/edit/add refresh are proven; remaining widget gap is day-boundary proof | Widget claims and App Store screenshots | Superseded |
 | EV-030 | Accessibility fix | `src/components/PremiumUI.tsx`, `artifacts/post-goal-aso-submission/44-accessibility-large-text.png` | Premium header, command hero, metrics, warnings, progress ring, and dock labels remain readable at `accessibility-extra-extra-large` after targeted font-scale caps | Dynamic Type proof | Partial accessibility improvement |
 | EV-031 | Localization/date fix | `src/logic/dateUtils.ts`, `src/logic/semesterInsights.ts`, `tests/dateUtils.test.ts`, `tests/planner.test.ts` | Month calendar grids use locale week starts and local-day increments; tests cover Sunday, Monday, and Saturday-start locales | Localization/date proof | Partial implementation improvement |
@@ -50,6 +50,7 @@ Starting commit: `e766ddaf17c9954ab1aaf53e09be8dbe4b6b0b8e`
 | EV-040 | Widget day-boundary code/build proof | `plugins/withStudyPlannerWidget.js`, `tests/widgetPlugin.test.ts`, `npm run test`, `EXPO_PUBLIC_STORE_CAPTURE=0 npx expo run:ios --device 6CBE6A7A-1778-406F-9F5B-3FDAA45310CE --no-bundler` | WidgetKit now recomputes due labels and urgency color from `dueAt` at render time and schedules timeline refresh for the earlier of 30 minutes or 00:01 local time; tests passed 38/38 and the extension built/installed cleanly | Widget freshness across day boundary | Code/build proven; overnight screenshot not captured |
 | EV-041 | Accessibility fix/proof | `src/components/AppButton.tsx`, `src/screens/ImportScreen.tsx`, `src/screens/AssignmentDetailScreen.tsx`, `src/screens/WidgetShowcaseScreen.tsx`, `src/screens/UpgradeScreen.tsx`, `tests/accessibilitySource.test.ts`, `artifacts/post-goal-aso-submission/49-accessibility-check-work-large-text.png` through `52-accessibility-paywall-large-text.png` | Core action screens now expose stronger labels/hints and bounded text scaling; real simulator large-text screenshots cover Check Work, Assignment Detail, Widget Setup, and Paywall; tests passed 39/39 | Core accessibility proof | Partial accessibility improvement |
 | EV-042 | Screenshot state proof | `App.tsx`, `src/screens/ImportScreen.tsx`, `src/screens/CoursesScreen.tsx`, `tests/accessibilitySource.test.ts`, `artifacts/post-goal-aso-submission/13-manual-add.png`, `artifacts/post-goal-aso-submission/17-check-new-work-edit-item.png` | Capture-only states now expose a real Manual Add form and expanded Check Work edit panel; screenshots are real simulator UI; tests passed 40/40 | Screenshot inventory and workflow proof | Captured |
+| EV-043 | Calendar filter proof | `App.tsx`, `src/screens/MonthlyCalendarScreen.tsx`, `tests/accessibilitySource.test.ts`, `artifacts/post-goal-aso-submission/23-calendar-filtered-class.png` | Capture-only Calendar state selects Chemistry 101, moves to that class's assignment date, and proves the course filter narrows calendar dots and agenda context; tests passed 40/40 | Calendar screenshot inventory and class filtering proof | Captured |
 
 ## Open Evidence Gaps
 
@@ -63,7 +64,7 @@ Starting commit: `e766ddaf17c9954ab1aaf53e09be8dbe4b6b0b8e`
 | Accepted-size App Store screenshots | Raw simulator screenshots may not match required 6.9/6.5 sizes | Blocker for upload-ready assets | Export plan or final resized PNGs |
 | App Store Connect product status | Code preserves product IDs, but ASC status is external | Blocker for submit recommendation | ASC checklist screenshots or manual confirmation |
 | Full e2e matrix | Unit tests cover logic, not all user flows | Non-blocker if documented; blocker for 9.4 claim if untested flows remain high-risk | Simulator use-case log and screenshots |
-| Remaining raw screenshots | 35 PNGs are captured, but upload/file/photo/parser/success/restore/localized states are still missing | Partial blocker for final asset package | Capture remaining supported states or document exclusions |
+| Remaining raw screenshots | 36 PNGs are captured, but upload/file/photo/parser/success/restore/localized states are still missing | Partial blocker for final asset package | Capture remaining supported states or document exclusions |
 
 ## Evidence Rules For This Branch
 